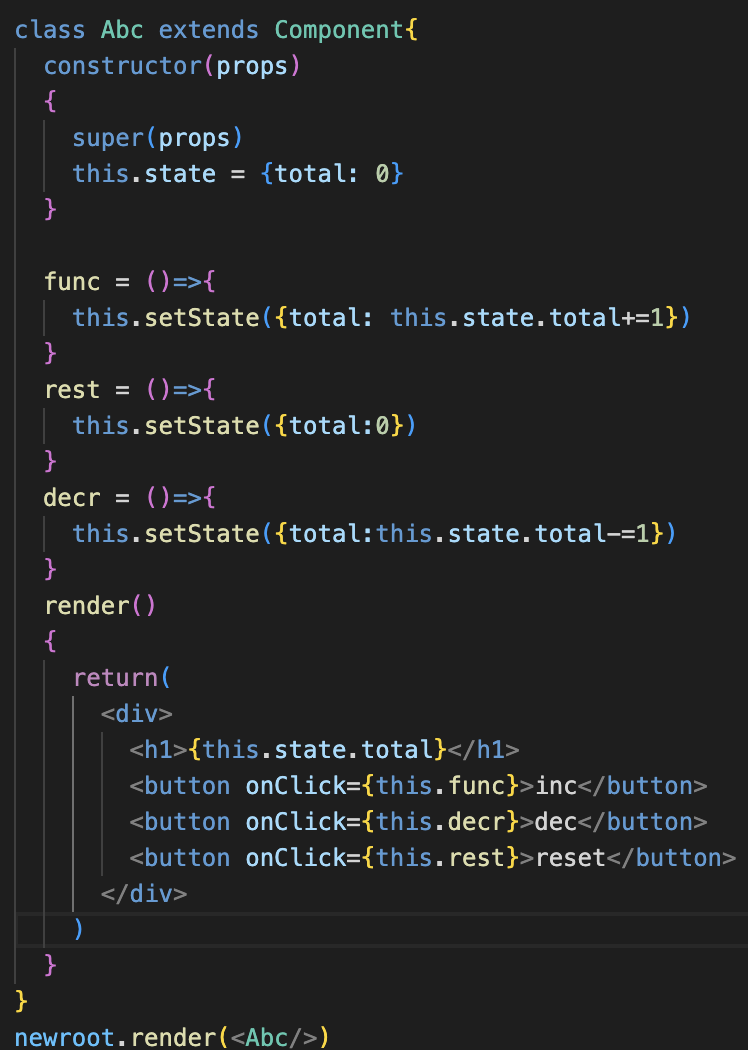
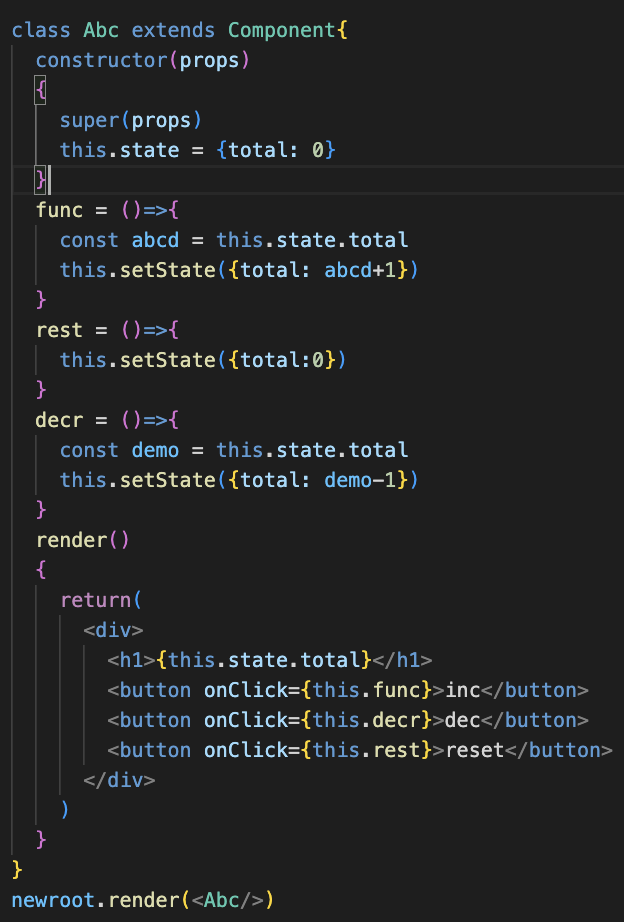
..

diff --git a/src/index.js b/src/index.js
@@ -55,15 +55,16 @@ class Abc extends Component{
     super(props)
     this.state = {total: 0}
   }
-
   func = ()=>{
-    this.setState({total: this.state.total+=1})
+    const abcd = this.state.total
+    this.setState({total: abcd+1})
   }
   rest = ()=>{
     this.setState({total:0})
   }
   decr = ()=>{
-    this.setState({total:this.state.total-=1})
+    const demo = this.state.total
+    this.setState({total: demo-1})
   }
   render()
   {

diff --git a/README.md b/README.md
@@ -23,4 +23,16 @@ incorrect_way: this.state.date = new Date()
 <h3>simple counter using setstate:</h3>
 <img src="screen_shots/7.png">
 <h3>simple counter with inc,dec and reset buttons</h3>
+<div>
+this is correct:<br>
+<pre>decr = ()=>{
+    const demo = this.state.total
+    this.setState({total: demo-1})
+  }</pre><br>
+  
+  this is incorrect, cuz u can't modify useState directly<br>
+  <pre>decr = ()=>{
+    this.setState({total: this.state.total-=1})
+  }</pre>
+  </div>
 <img src="screen_shots/8.png">
